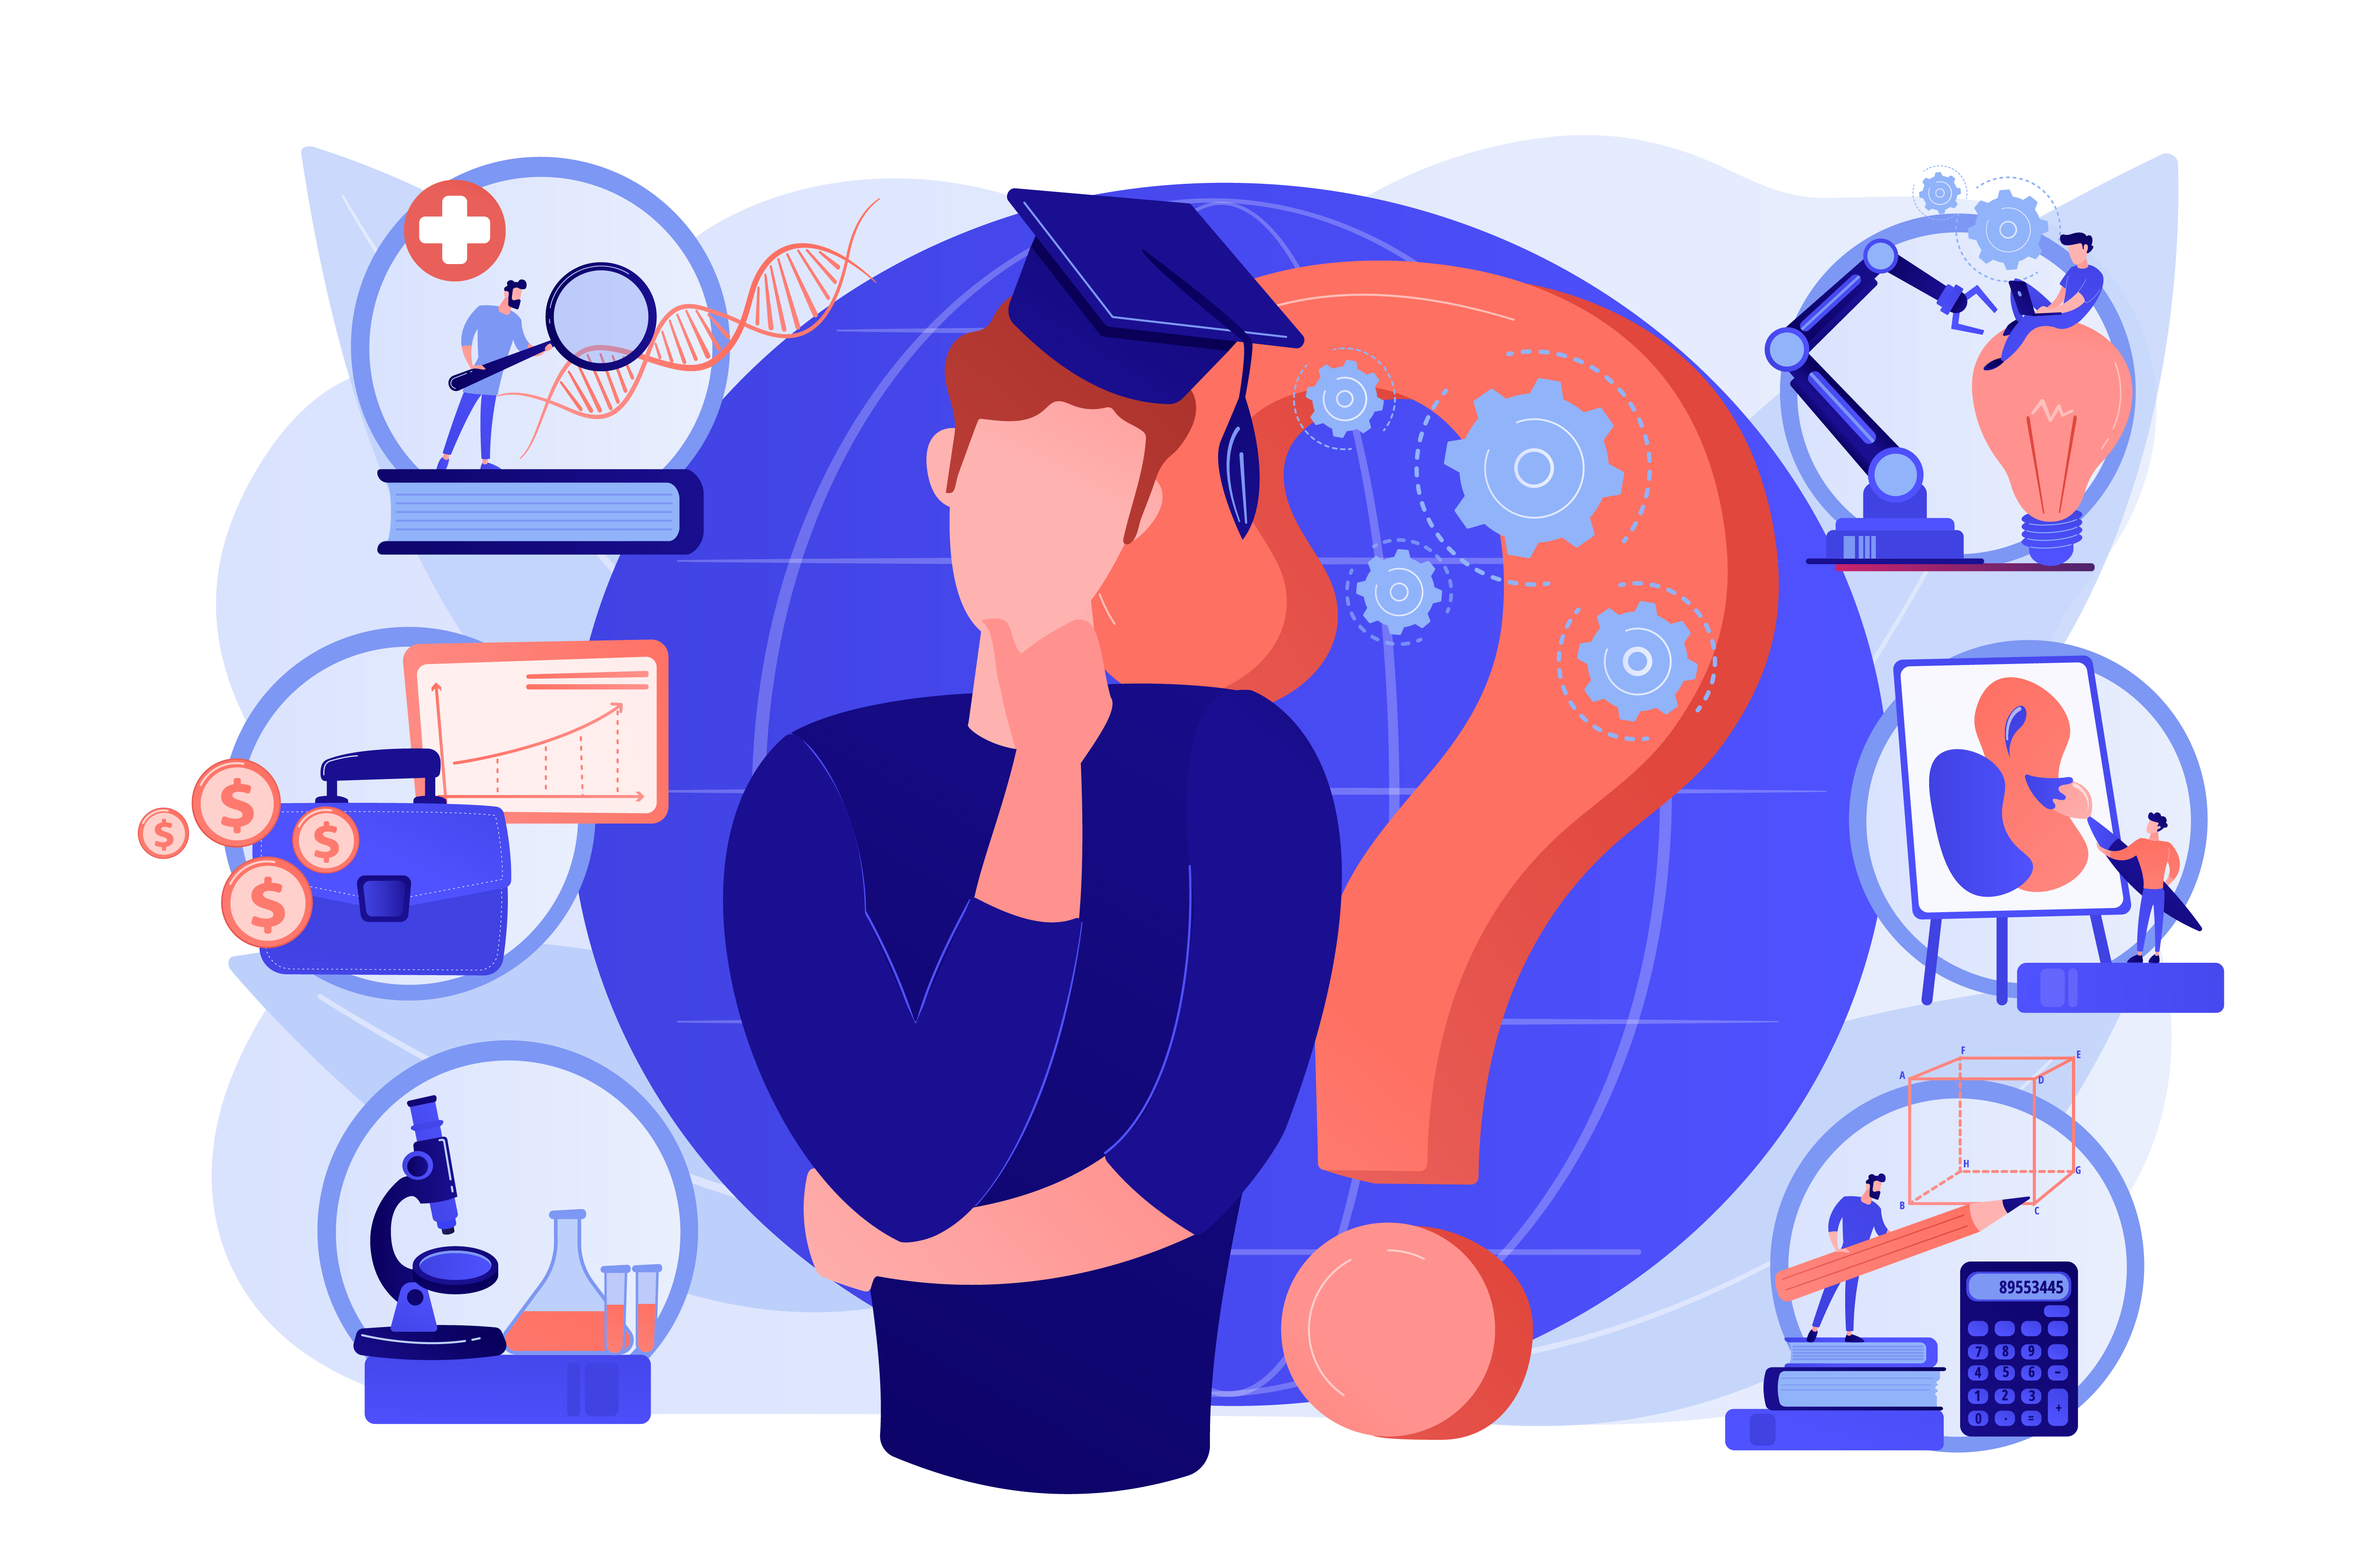
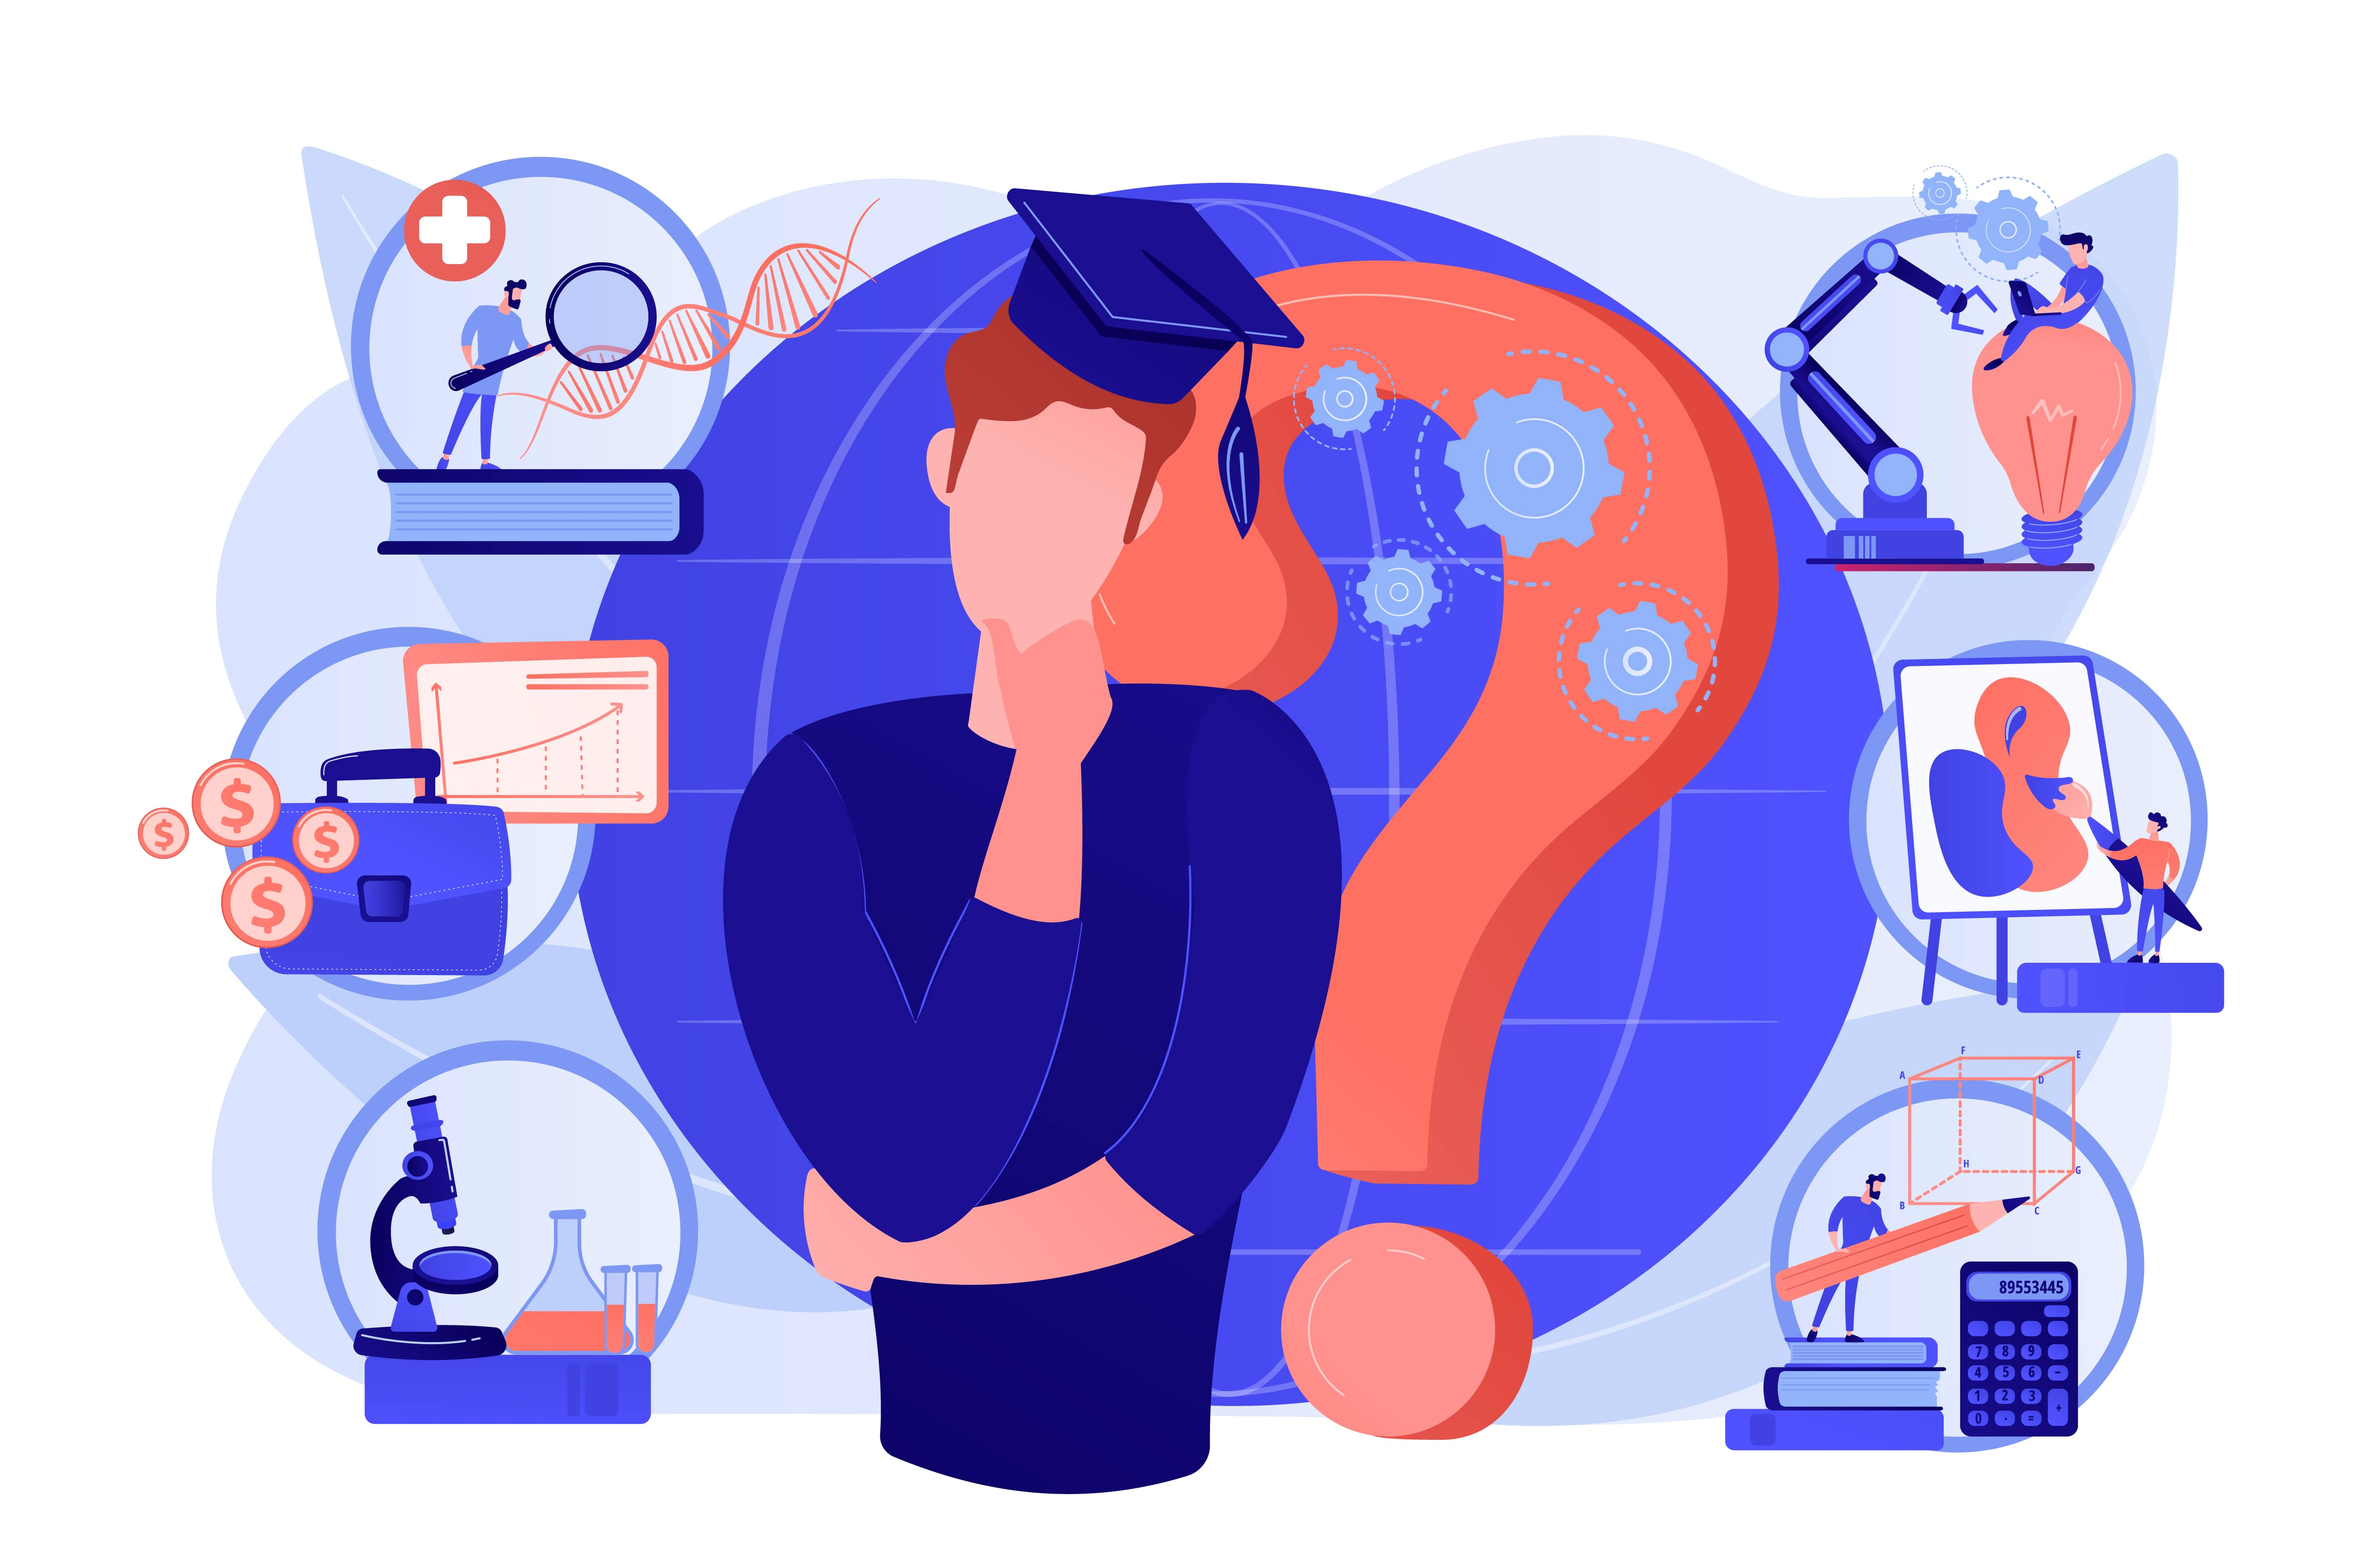
image compressions.. (#26)

Changed region(s): [[0.3434, 0.1556, 0.3746, 0.1867], [0.3122, 0.1867, 0.3434, 0.2179]]

diff --git a/courses.html b/courses.html
@@ -50,7 +50,7 @@
           <path d="M0,0V5.63C149.93,59,314.09,71.32,475.83,42.57c43-7.64,84.23-20.12,127.61-26.46,59-8.63,112.48,12.24,165.56,35.4C827.93,77.22,886,95.24,951.2,90c86.53-7,172.46-45.71,248.8-84.81V0Z" class="shape-fill"></path>
       </svg>-->
 
-  </div>
+
   <h1 class="coursepg" >COURSES</h1>
 <div class="container">
 <div class="row" style="margin: 4rem;">
